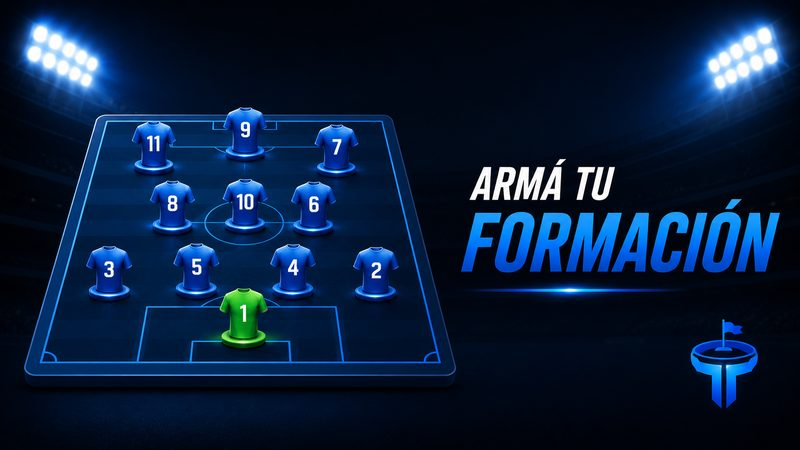
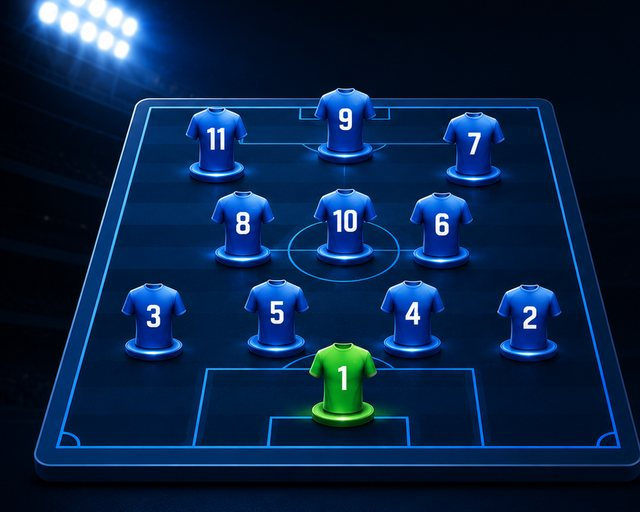
club: fotos sin el texto quemado + hover con zoom y descripcion
Las imagenes traian el titulo de la seccion impreso a la derecha, duplicando el
texto del tile. Se recortaron a la zona del grafico (455/800 de ancho, franja
vertical centrada), quedando en 640x512 (ratio 1.25) y sin texto.

El tile toma ese mismo ratio via aspect-ratio, asi la foto entra completa sin
recortes. La foto pasa a una capa propia (.club-tile-photo) para poder animarla:
en hover hace zoom 1.09, el velo se oscurece y aparece una descripcion corta de la
seccion. En pantallas tactiles (hover:none) la descripcion se muestra siempre.

diff --git a/club.html b/club.html
@@ -103,32 +103,49 @@ html, body { min-height: 100%; font-family: 'DM Sans', sans-serif; background: v
 }
 .club-tile {
   position: relative; cursor: pointer; overflow: hidden;
-  border-radius: 14px; padding: 18px 14px; min-height: 150px;
+  border-radius: 14px; padding: 14px; aspect-ratio: 1.25;   /* = ratio de las fotos, entran completas */
   display: flex; flex-direction: column; justify-content: flex-end;
   background-color: rgba(255,255,255,0.04); border: 1px solid rgba(255,255,255,0.09);
-  background-size: cover; background-position: center;
-  transition: transform 0.12s ease, background-color 0.2s, border-color 0.2s;
+  transition: transform 0.12s ease, border-color 0.2s;
 }
 .club-tile:active { transform: scale(0.975); }
 .club-tile:hover { border-color: var(--club-color); }
 .club-tile::before {
   content: ''; position: absolute; left: 0; top: 0; bottom: 0; width: 4px;
-  background: var(--club-color); z-index: 2;
+  background: var(--club-color); z-index: 3;
 }
-/* Velo oscuro solo en la mitad de abajo: deja ver la foto y mantiene legible el texto
-   (las fotos ya son oscuras — brillo medio 30-80 de 255 — así que no hace falta más). */
+/* La foto va en su propia capa para poder agrandarla en hover sin mover el texto */
+.club-tile-photo {
+  position: absolute; inset: 0; z-index: 0;
+  background-size: cover; background-position: center;
+  transition: transform 0.45s ease;
+}
+.club-tile:hover .club-tile-photo { transform: scale(1.09); }
+/* Velo oscuro hacia abajo: deja ver la foto y mantiene legible el texto */
 .club-tile::after {
   content: ''; position: absolute; inset: 0; z-index: 1;
-  background: linear-gradient(180deg, rgba(0,0,0,0) 0%, rgba(0,0,0,0.25) 45%, rgba(0,0,0,0.72) 100%);
-  transition: background 0.2s;
+  background: linear-gradient(180deg, rgba(0,0,0,0) 0%, rgba(0,0,0,0.22) 42%, rgba(0,0,0,0.74) 100%);
+  transition: background 0.3s;
 }
-.club-tile:hover::after { background: linear-gradient(180deg, rgba(0,0,0,0) 0%, rgba(0,0,0,0.15) 45%, rgba(0,0,0,0.65) 100%); }
+.club-tile:hover::after { background: linear-gradient(180deg, rgba(0,0,0,0.05) 0%, rgba(0,0,0,0.38) 42%, rgba(0,0,0,0.86) 100%); }
 .club-tile-body { position: relative; z-index: 2; }
-/* Foto de cada sección (fotos/secciones/, optimizadas a 800px) */
-.tile-formacion    { background-image: url('fotos/secciones/formacion.jpg'); }
-.tile-puntajes     { background-image: url('fotos/secciones/puntajes.jpg'); }
-.tile-estadisticas { background-image: url('fotos/secciones/estadisticas.jpg'); }
-.tile-tribunapp    { background-image: url('fotos/secciones/est-tribunapp.jpg'); }
+/* Descripción corta: aparece al pasar el mouse por encima */
+.club-tile-desc {
+  font-family: 'Barlow Condensed', sans-serif; font-size: 12.5px; letter-spacing: 0.3px;
+  color: rgba(255,255,255,0.8); line-height: 1.25;
+  max-height: 0; opacity: 0; overflow: hidden; margin-top: 0;
+  transition: max-height 0.3s ease, opacity 0.3s ease, margin-top 0.3s ease;
+}
+.club-tile:hover .club-tile-desc { max-height: 52px; opacity: 1; margin-top: 5px; }   /* 52px = hasta 3 líneas, no corta */
+/* En pantallas táctiles no hay hover: la descripción se muestra siempre. */
+@media (hover: none) {
+  .club-tile-desc { max-height: 52px; opacity: 1; margin-top: 5px; }
+}
+/* Foto de cada sección (fotos/secciones/, recortadas al gráfico y optimizadas) */
+.tile-formacion    .club-tile-photo { background-image: url('fotos/secciones/formacion.jpg'); }
+.tile-puntajes     .club-tile-photo { background-image: url('fotos/secciones/puntajes.jpg'); }
+.tile-estadisticas .club-tile-photo { background-image: url('fotos/secciones/estadisticas.jpg'); }
+.tile-tribunapp    .club-tile-photo { background-image: url('fotos/secciones/est-tribunapp.jpg'); }
 .club-tile-title {
   font-family: 'Bebas Neue', sans-serif; font-size: 19px; letter-spacing: 1.5px;
   color: #fff; line-height: 1.05;
@@ -138,7 +155,7 @@ html, body { min-height: 100%; font-family: 'DM Sans', sans-serif; background: v
   color: rgba(255,255,255,0.5); margin-top: 4px; min-height: 15px;
 }
 .club-tile-sub b { color: var(--club-color); font-weight: 600; }
-@media (max-width: 360px) { .club-tile-title { font-size: 17px; } .club-tile { min-height: 132px; } }
+@media (max-width: 360px) { .club-tile-title { font-size: 17px; } }
 /* ===== SECONDARY ROW ===== */
 .secondary-row {
   display: flex; height: 48px;
@@ -740,25 +757,33 @@ html, body { min-height: 100%; font-family: 'DM Sans', sans-serif; background: v
   <!-- MENÚ PRINCIPAL — 4 SECCIONES -->
   <div class="club-grid">
     <div class="club-tile tile-formacion" onclick="openSection('formation')">
+      <div class="club-tile-photo"></div>
       <div class="club-tile-body">
         <div class="club-tile-title">ARMÁ TU FORMACIÓN</div>
         <div class="club-tile-sub" id="tile-formacion-sub"></div>
+        <div class="club-tile-desc">Elegí los 11 que pondrías vos</div>
       </div>
     </div>
     <div class="club-tile tile-puntajes" onclick="openSection('scores')">
+      <div class="club-tile-photo"></div>
       <div class="club-tile-body">
         <div class="club-tile-title">PONÉ TU PUNTAJE</div>
         <div class="club-tile-sub" id="tile-puntaje-sub"></div>
+        <div class="club-tile-desc">Calificá a cada jugador del partido</div>
       </div>
     </div>
     <div class="club-tile tile-estadisticas" onclick="location.href='equipo.html?c='+encodeURIComponent(new URLSearchParams(location.search).get('c')||'')+'&s=estadisticas&from=club'">
+      <div class="club-tile-photo"></div>
       <div class="club-tile-body">
         <div class="club-tile-title">ESTADÍSTICAS</div>
+        <div class="club-tile-desc">Rendimiento del equipo fecha por fecha</div>
       </div>
     </div>
     <div class="club-tile tile-tribunapp" onclick="location.href='tribunapp-equipo.html?c='+encodeURIComponent(new URLSearchParams(location.search).get('c')||'')+'&from=club'">
+      <div class="club-tile-photo"></div>
       <div class="club-tile-body">
         <div class="club-tile-title">EST. TRIBUNAPP</div>
+        <div class="club-tile-desc">Lo que vota la gente</div>
       </div>
     </div>
   </div>
